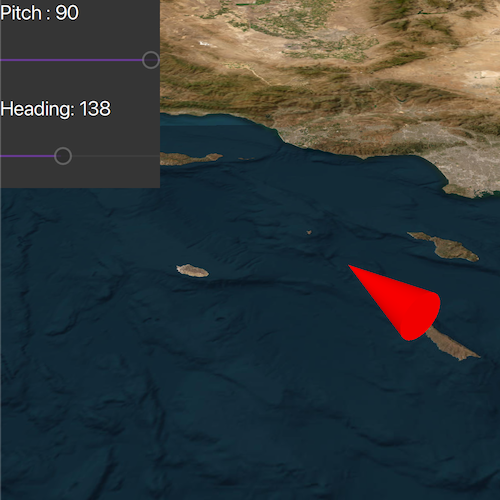
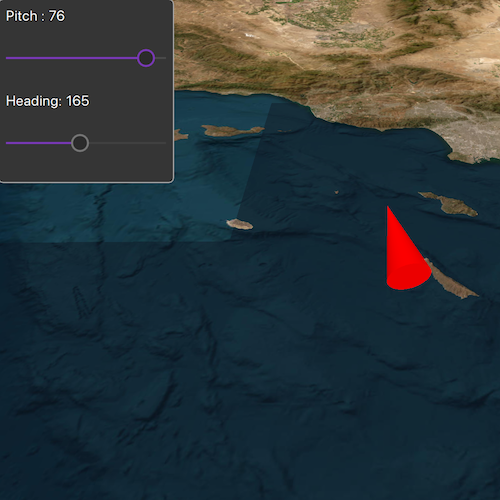
ScenePropertiesExpressions(scenes) - Ui menu fix.

diff --git a/CppSamples/Scenes/ScenePropertiesExpressions/ScenePropertiesExpressions.qml b/CppSamples/Scenes/ScenePropertiesExpressions/ScenePropertiesExpressions.qml
@@ -36,67 +36,58 @@ Item {
     }
 
     Rectangle {
-        anchors.fill: sliderColumn
+        width: sliderColumn.implicitWidth + 16
+        height: sliderColumn.implicitHeight + 16
         color: palette.base
-    }
-
-    Column{
-        id: sliderColumn
-
-        spacing: 4
-
-        anchors {
-            left: parent.left
-            top: parent.top
+        radius: 5
+        border{
+            width: 1
+            color: "darkgrey"
         }
 
-        height: childrenRect.height
+        Column {
+            id: sliderColumn
+            spacing: 2
 
-        Label {
             anchors {
-                margins: 5
+                left: parent.left
+                top: parent.top
+                centerIn: parent
             }
-            text: qsTr("Pitch : " + model.pitch.toFixed(0))
-            font.pixelSize: 20
-            verticalAlignment: Text.AlignTop
-        }
 
-        Slider{
-            id: pitchSlider
-            opacity: 0.7
-            height: 64
+            height: childrenRect.height
 
-            // slider controls degrees of rotation:
-            from: -90
-            to: 90
-            value: 90
-            anchors {
-                margins: 5
+            Label {
+                text: qsTr("Pitch : " + model.pitch.toFixed(0))
+                verticalAlignment: Text.AlignTop
             }
-        }
 
-        Label {
-            anchors {
-                margins: 5
+            Slider {
+                id: pitchSlider
+                height: 64
+
+                // slider controls degrees of rotation:
+                from: -90
+                to: 90
+                value: 90
             }
-            text: qsTr("Heading: " + model.heading.toFixed(0))
-            verticalAlignment: Text.AlignTop
-            font.pixelSize: 20
-        }
 
-        Slider{
-            id: headingSlider
-            opacity: 0.7
-            height: 64
+            Label {
+                text: qsTr("Heading: " + model.heading.toFixed(0))
+                verticalAlignment: Text.AlignTop
+            }
 
-            // slider controls degrees of rotation:
-            from: 0
-            to: 360
-            value: 180
-            anchors {
-                margins: 5
+            Slider {
+                id: headingSlider
+                height: 64
+
+                // slider controls degrees of rotation:
+                from: 0
+                to: 360
+                value: 180
             }
         }
+
     }
 
     // Declare the C++ instance which creates the scene etc. and supply the view
